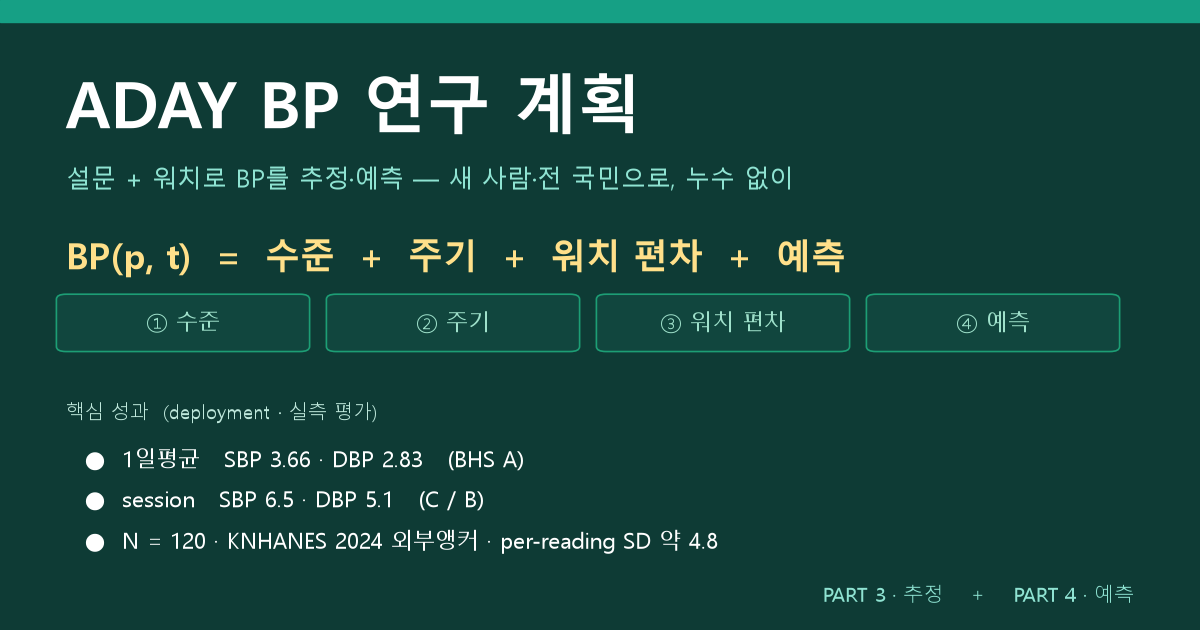
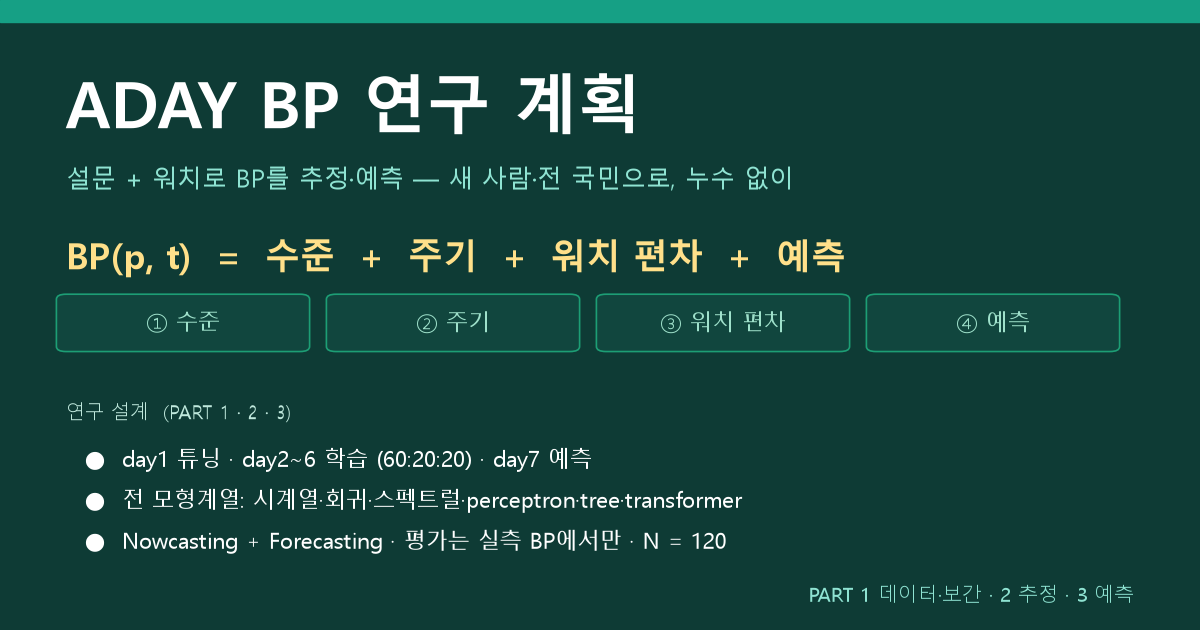
Rewrite research plan to new structure (PART1 data/clean/split/interp, PART2 estimation/nowcasting, PART3 prediction/forecasting)
- Full model zoo (time-series, regression, spectral/phase, perceptron, tree, transformer; single & multi-task)
- System vision: cluster profile + 1-min initial BP + watch minute-update -> real-time 1-day curve (nowcast + forecast)
- Split day1 tuning / day2-6 train 60:20:20 / day7 forecast; minute interpolation target; eval on actual only
- Patient-dashboard mock-up plan; authors added; updated thumbnail + index card

diff --git a/index.html b/index.html
@@ -33,7 +33,7 @@ h1{font-size:32px;margin:.2em 0}.sub{color:#9aa7bd;font-size:16px;margin-bottom:
 <div class="body"><h2>PART 3 · 혈압 추정</h2><p>혈압 이력 없는 새 사람을 위한 3단계 분해 — 설문(KNHANES 외부앵커)으로 평균 수준, 1일 보정으로 개인 확정, 연령×성별 합성커널로 일주기. 누수차단·전국 일반화. 120명.</p><span class="tag">Estimation</span></div></a>
 <a class="card" href="plan.html">
 <img src="thumbnail_plan.png" alt="연구 계획">
-<div class="body"><h2>📋 연구 계획</h2><p>전체 연구 설계 — PART3 추정 + PART4 예측, 4-stage 분해(수준·주기·워치·예측), session-mean 관찰값, measurement error(SD 약4.8), study design(추정×예측 두 축), deployment 성과. 팀 공유용.</p><span class="tag">Research Plan</span></div></a>
+<div class="body"><h2>📋 연구 계획</h2><p>전체 연구 설계 — PART1 데이터·정제·보간 / PART2 추정(Nowcasting) / PART3 예측(Forecasting). 전 모형계열(시계열·회귀·스펙트럴·perceptron·tree·transformer × single·multi), day1 튜닝·day2~6 학습·day7 예측, 평가는 실측에서만. 환자 대시보드 mock-up. 팀 공유용.</p><span class="tag">Research Plan</span></div></a>
 <a class="card" href="paper.html">
 <img src="thumbnail_paper.png" alt="연구 논문">
 <div class="body"><h2>📄 연구 논문</h2><p>개인 일주기 프로파일 기반 일상생활 24시간 혈압 예측. 위상·역시간·군집 커널 13모형, 1시간 전방 SBP 3.83·DBP 2.78(BHS Grade A). N=120.</p><span class="tag">Paper</span>